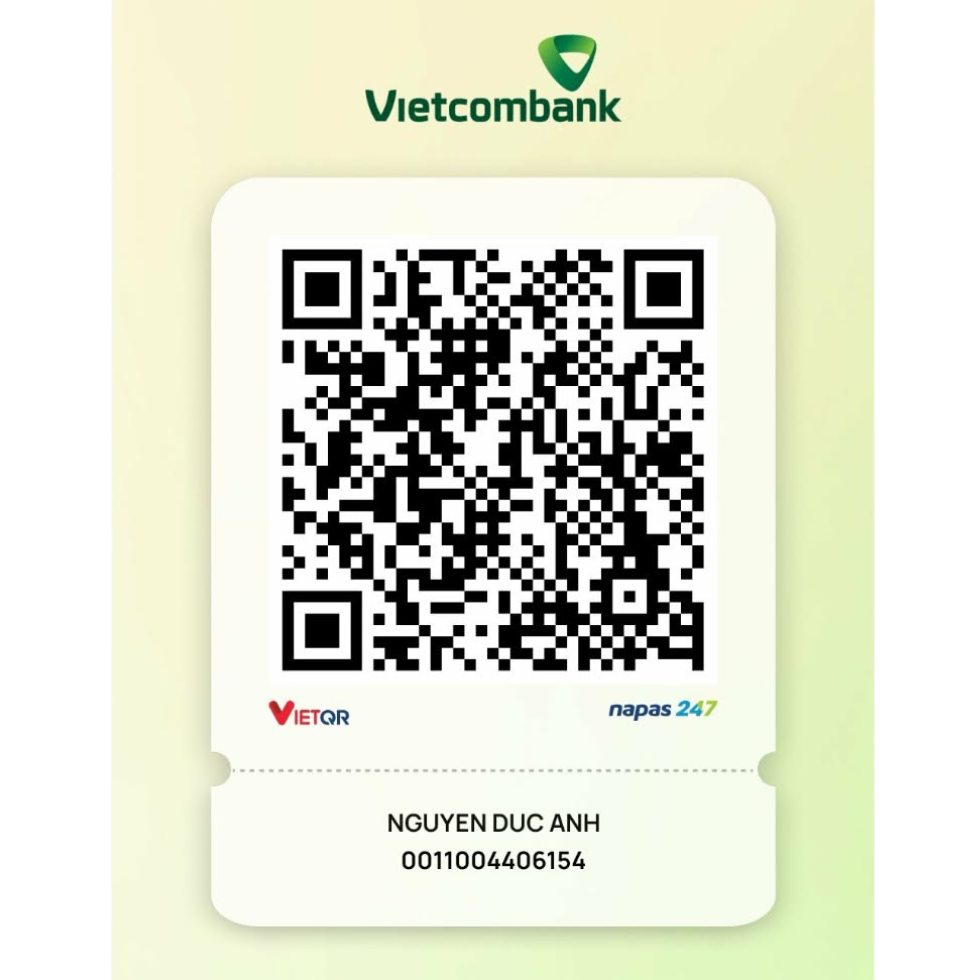
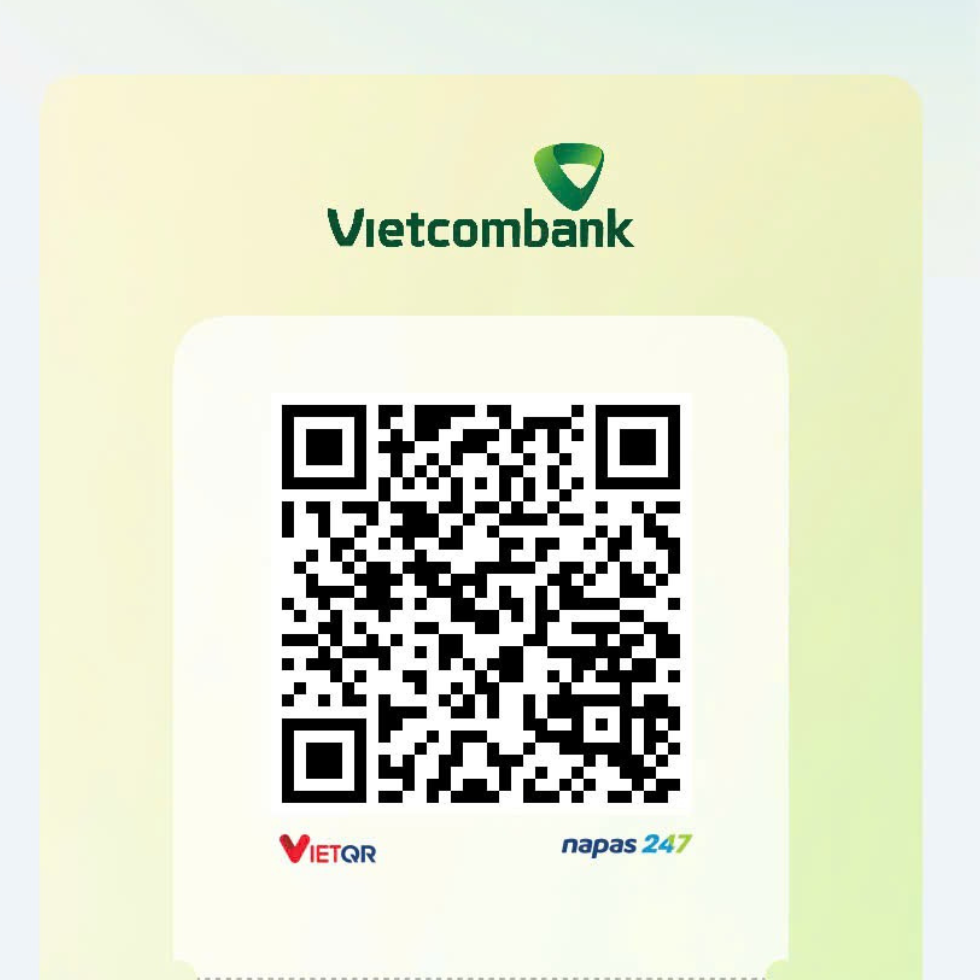
add content

diff --git a/index.html b/index.html
@@ -101,7 +101,7 @@
           Và.. Ngày ấy đã tới
         </h2>
         <h3 data-aos="zoom-in" data-aos-duration="1000">
-          Ngày chúng ta chính thức về chung " một nhà "
+          Ngày chúng mình chính thức về chung <br> " một nhà "
         </h3>
         <p data-aos="zoom-in" data-aos-duration="1000">
           Thật vui vì được gặp và đón tiếp các bạn trong một dịp đặc biệt - Ngày
@@ -296,7 +296,9 @@
           ></path>
         </svg>
         <div>
+          <br>
           <h2 data-aos="zoom-in" data-aos-duration="1000">Love Gift</h2>
+          <br>
           <p data-aos="zoom-in" data-aos-duration="1000">
             Nếu có thể, bạn hãy tới tham dự Đám cưới, chung vui và Mừng cưới
             trực tiếp cho chúng mình nha ^^. Cảm ơn bạn rất nhiều! :
@@ -326,7 +328,7 @@
                 loading="lazy"
               />
               <figcaption>
-                VCB 12345678<br />
+                VCB 0011004406514<br />
                 Tên TK: NGUYEN DUC ANH<br />
                 Mừng cưới đến Chú rể
               </figcaption>

diff --git a/src/js/time.js b/src/js/time.js
@@ -11,7 +11,7 @@ export const time = () => {
          Đ/c:  ${details.address} </p>
          <a href="${details.map}" role="link" target="_blank" aria-label="link google maps" data-aos="zoom-in" data-aos-duration="1000">
         <i class="bx bxs-map-alt" aria-hidden="true"></i>
-        <span> google maps</span>
+        <span> Maps</span>
          </a>`
 
     );
